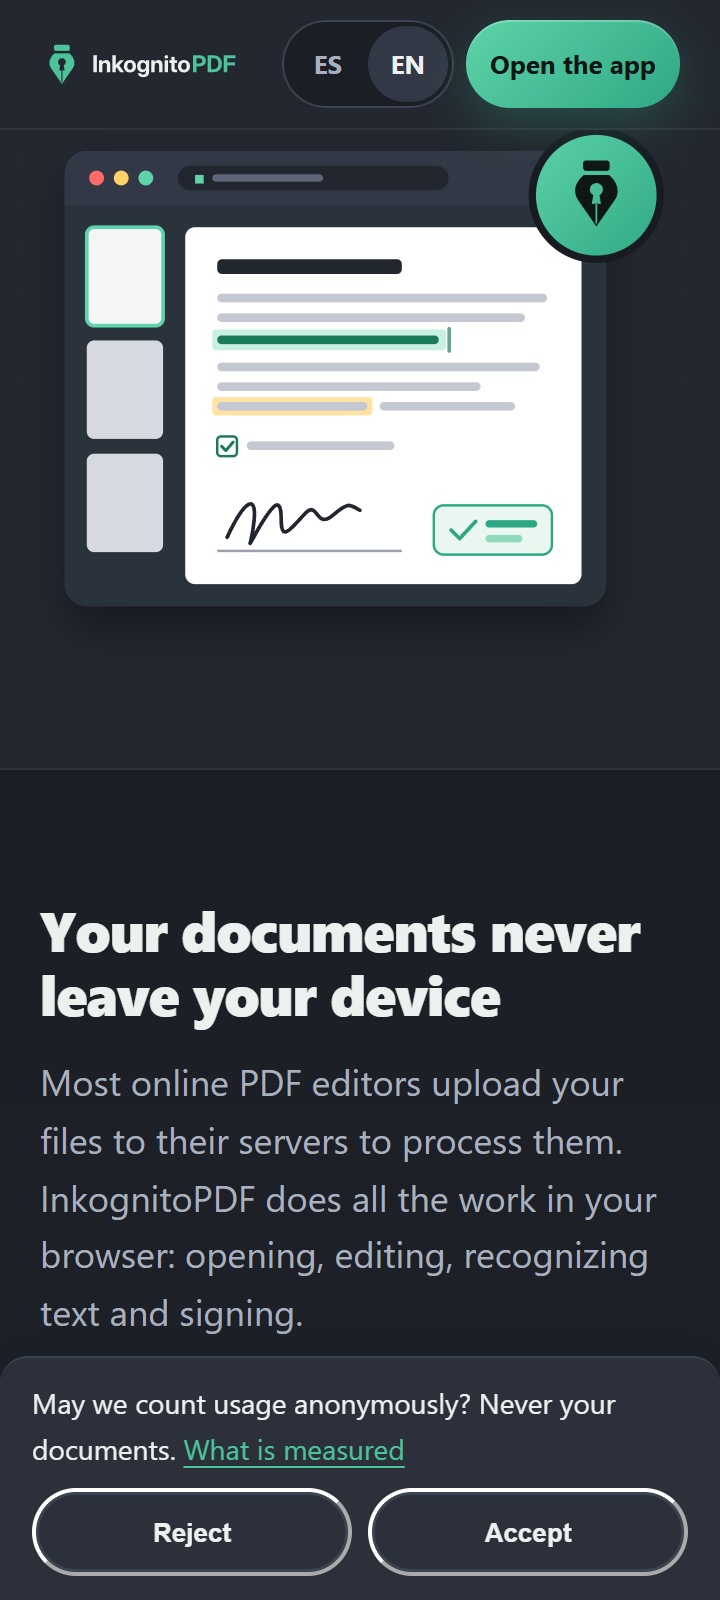
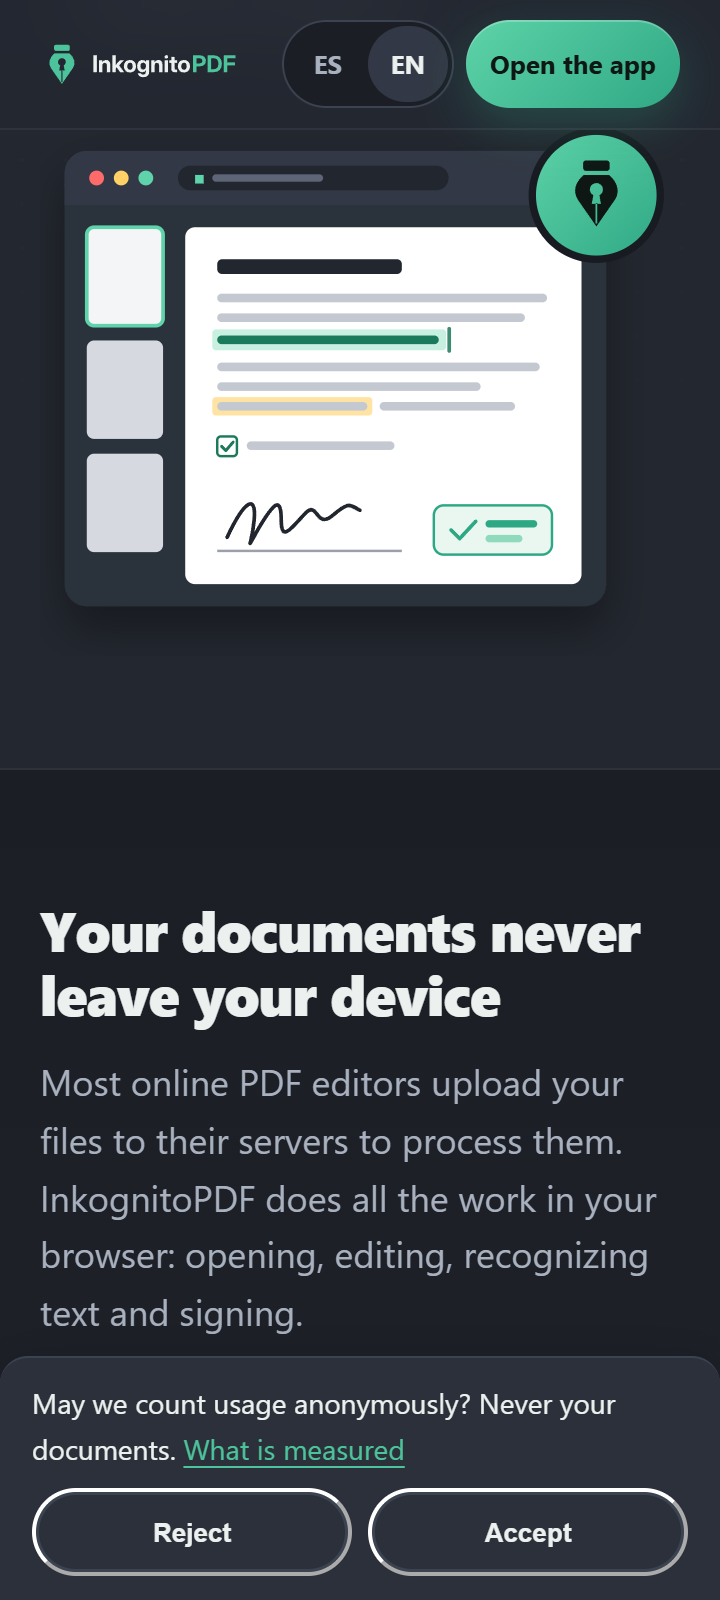
Translucent landing header again, with a stronger blur
- 80% background with saturate(1.5) blur(20px), so text scrolling behind
  can't be read; a nearly opaque background where backdrop-filter is missing.
- The CSS minifier kept only -webkit-backdrop-filter, which Chrome ignores;
  the unprefixed property now comes last and survives.
- The e2e test checks the translucency and blur, and saves
  docs/screenshots/consent/header-412-landing.png.

diff --git a/e2e/consent.spec.ts b/e2e/consent.spec.ts
@@ -56,14 +56,28 @@ test("answered in the app, the landing does not ask again", async ({
   await expect(appNotice(page)).toBeVisible();
 });
 
-/** The header lets nothing show through. */
-async function opaque(page: Page, selector: string) {
-  const color = await page
+/**
+ * The text scrolling behind the header can't be read: the app's header is
+ * opaque; the landing's is translucent with a strong blur.
+ */
+async function hidesWhatScrolls(page: Page, selector: string) {
+  const style = await page
     .locator(selector)
     .first()
-    .evaluate((el) => getComputedStyle(el).backgroundColor);
-  // rgb(…) is opaque; rgba(…, a) with a < 1 is not.
-  expect(color, selector).toMatch(/^rgb\(/);
+    .evaluate((el) => {
+      const css = getComputedStyle(el);
+      return { color: css.backgroundColor, filter: css.backdropFilter };
+    });
+  if (selector === ".app-header") {
+    // rgb(…) is opaque; rgba(…, a) with a < 1 is not.
+    expect(style.color, selector).toMatch(/^rgb\(/);
+    return;
+  }
+  const alpha = Number(style.color.match(/rgba\(.*,\s*([\d.]+)\)/)?.[1]);
+  expect(alpha, selector).toBeGreaterThanOrEqual(0.7);
+  expect(alpha, selector).toBeLessThan(1);
+  const blur = Number(style.filter.match(/blur\(([\d.]+)px\)/)?.[1]);
+  expect(blur, selector).toBeGreaterThanOrEqual(16);
 }
 
 for (const size of [
@@ -104,7 +118,7 @@ for (const size of [
           expect(boxes).toHaveLength(2);
           expect(Math.abs(boxes[0]!.y - boxes[1]!.y)).toBeLessThan(1);
           for (const b of boxes) expect(b!.height).toBeGreaterThanOrEqual(43.5);
-          await opaque(page, header);
+          await hidesWhatScrolls(page, header);
           if (path === "/") await page.mouse.wheel(0, 700);
           await page.waitForTimeout(300);
           await page.screenshot({
@@ -113,3 +127,26 @@ for (const size of [
         }
       });
   });
+
+test.describe("phone 412×915, landing header", () => {
+  test.use({
+    viewport: { width: 412, height: 915 },
+    deviceScaleFactor: 2,
+    isMobile: true,
+    hasTouch: true,
+  });
+
+  test("text scrolling behind it is blurred out", async ({ page }) => {
+    await page.goto("/");
+    await expect(page.locator("#analytics")).toBeAttached();
+    // Put a heading and its text right behind the header.
+    await page.evaluate(() => {
+      const heading = document.querySelector("#analytics h3")!;
+      const top = heading.getBoundingClientRect().top + scrollY - 20;
+      scrollTo({ top, behavior: "instant" });
+    });
+    await page.waitForTimeout(300);
+    await hidesWhatScrolls(page, ".site-header");
+    await page.screenshot({ path: `${DIR}/header-412-landing.png` });
+  });
+});

diff --git a/src/landing/landing.css b/src/landing/landing.css
@@ -196,9 +196,18 @@ p {
   position: sticky;
   top: 0;
   z-index: 50;
-  /* Opaque: the text scrolling behind must not show through. */
-  background: rgb(35 39 47);
+  /* Without a blur, nearly opaque: the text behind must not be legible. */
+  background: rgb(35 39 47 / 0.96);
   border-bottom: 1px solid rgb(255 255 255 / 0.06);
+}
+@supports (backdrop-filter: blur(1px)) or (-webkit-backdrop-filter: blur(1px)) {
+  .site-header {
+    /* Translucent, but blurred enough that what scrolls behind can't be read. */
+    background: rgb(35 39 47 / 0.8);
+    /* Prefixed first: the minifier keeps only the last of the two. */
+    -webkit-backdrop-filter: saturate(1.5) blur(20px);
+    backdrop-filter: saturate(1.5) blur(20px);
+  }
 }
 
 .header-row {
